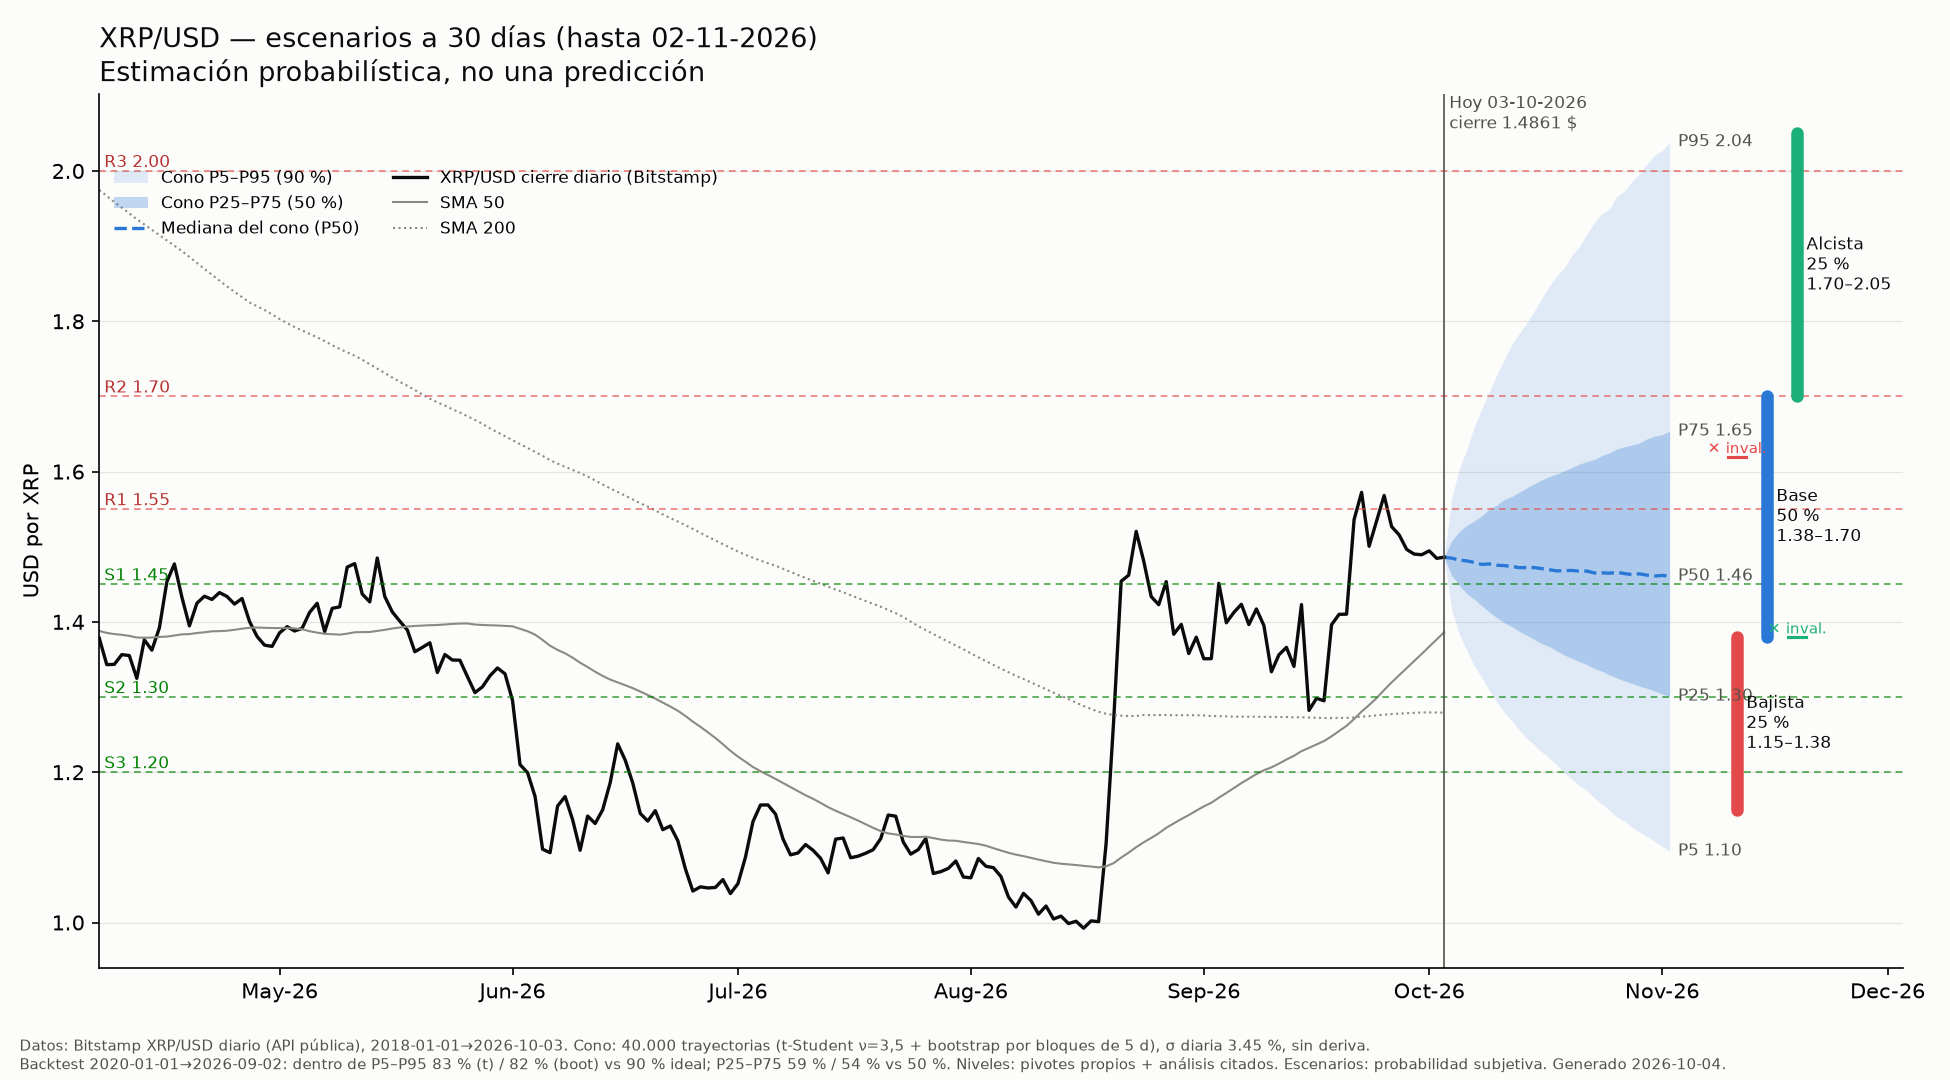
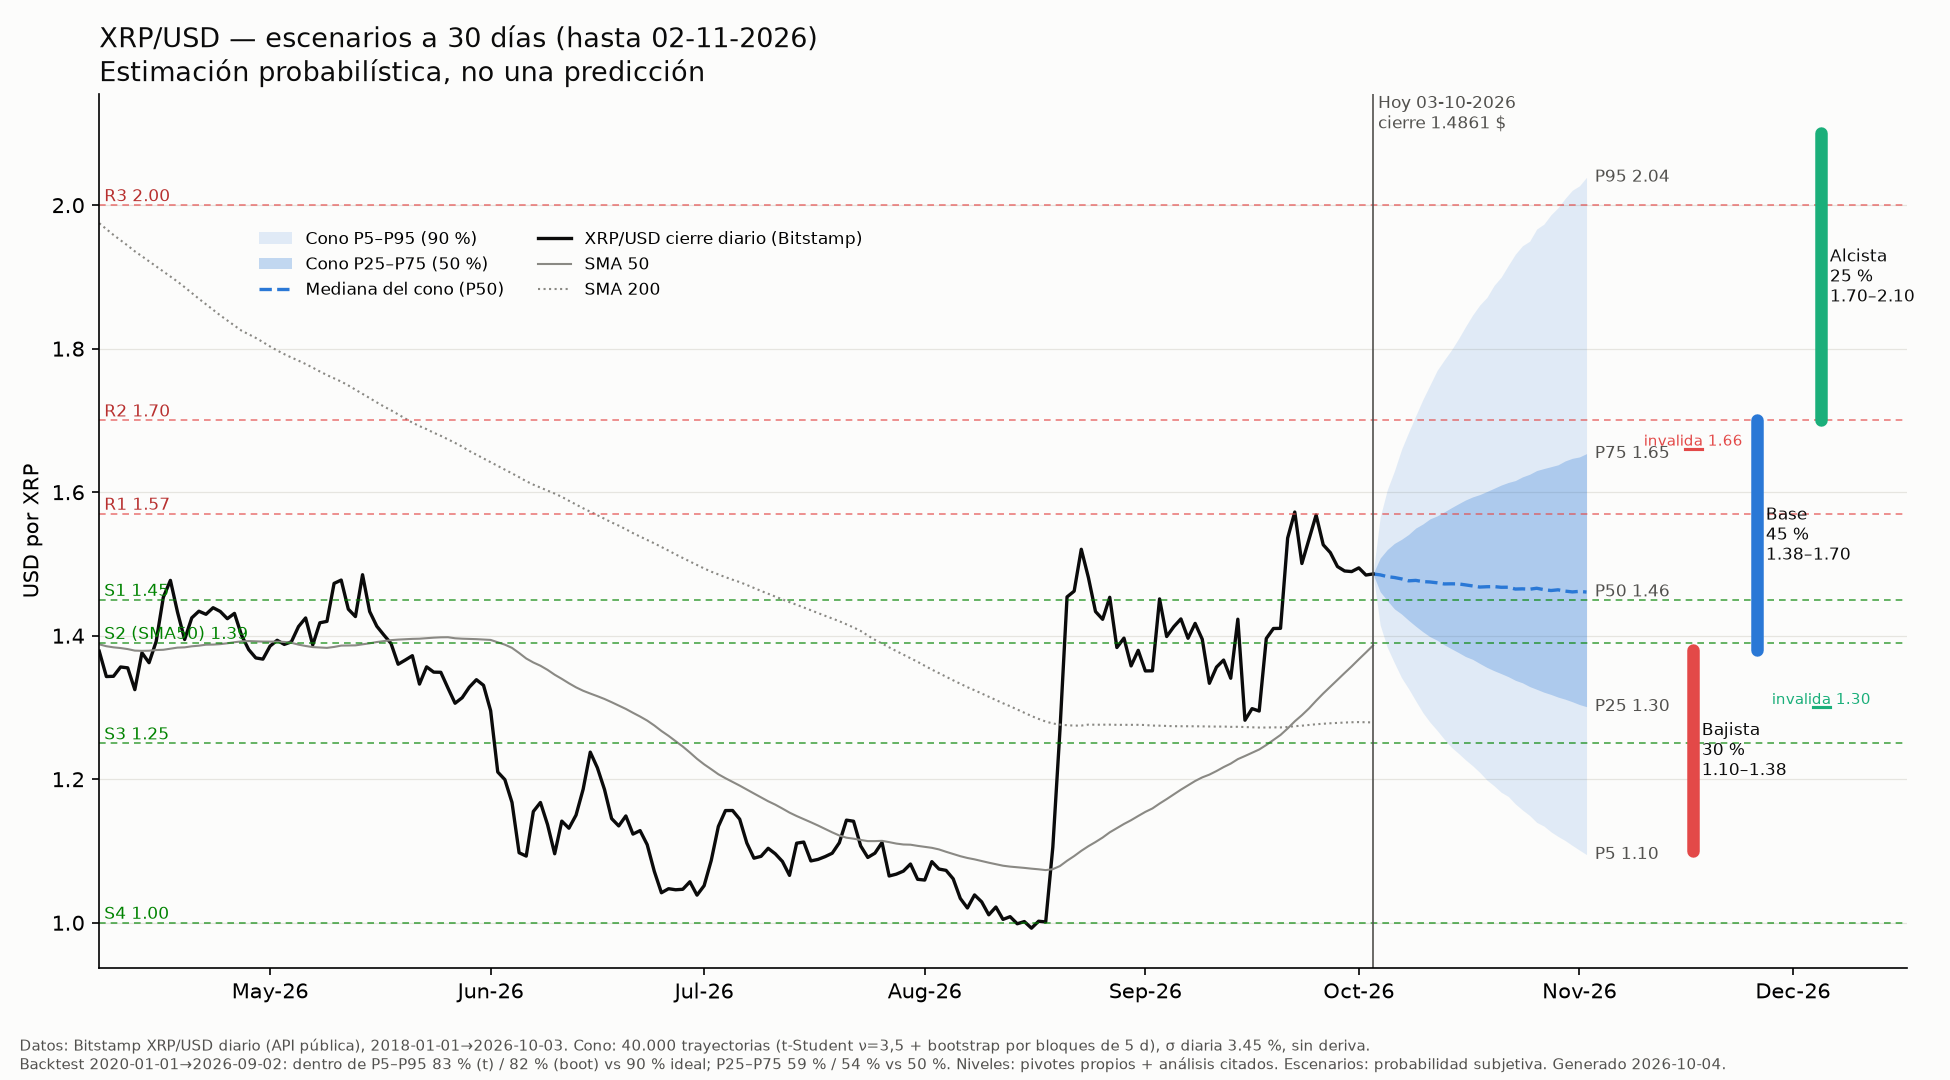
Resultados del análisis de escenarios de XRP (cono, backtest y gráficos)
Claude-Session: https://claude.ai/code/session_019mf4pPBmcFr4nLX5A78azg

diff --git a/analysis/xrp_scenarios.py b/analysis/xrp_scenarios.py
@@ -220,18 +220,18 @@ for v, lab in RES:
     ax.axhline(v, color="#e34948", lw=0.8, ls=(0, (4, 3)), alpha=0.7)
     ax.text(x0, v, f" {lab} {v:.2f}", va="bottom", fontsize=8, color="#b8302f")
 # Escenarios: barras de rango al final del horizonte
-xe = fut[-1] + pd.Timedelta(days=9)
+xe = fut[-1] + pd.Timedelta(days=15)
 for k, (name, s) in enumerate(SC.items()):
-    xx = xe + pd.Timedelta(days=4 * k)
+    xx = xe + pd.Timedelta(days=9 * k)
     ax.plot([xx, xx], [s["lo"], s["hi"]], color=s["col"], lw=6, solid_capstyle="round")
     ax.text(xx + pd.Timedelta(days=1.2), (s["lo"] + s["hi"]) / 2, f"{name}\n{s['p']} %\n{s['lo']:.2f}–{s['hi']:.2f}",
             fontsize=8, va="center", color="#0b0b0b")
     if s.get("inv"):
         ax.plot([xx - pd.Timedelta(days=1.2), xx + pd.Timedelta(days=1.2)], [s["inv"]] * 2, color=s["col"], lw=1.5)
-        ax.text(xx, s["inv"], "✕ inval.", fontsize=7, ha="center", va="bottom", color=s["col"])
+        ax.text(xx, s["inv"], f"invalida {s['inv']:.2f}", fontsize=7, ha="center", va="bottom", color=s["col"])
 ax.axvline(last_date, color="#52514e", lw=0.8)
 ax.text(last_date, ax.get_ylim()[1], f" Hoy {last_date:%d-%m-%Y}\n cierre {P0:.4f} $", va="top", fontsize=8, color="#52514e")
-ax.set_xlim(hx.index[0], xe + pd.Timedelta(days=22))
+ax.set_xlim(hx.index[0], xe + pd.Timedelta(days=30))
 ax.xaxis.set_major_formatter(mdates.DateFormatter("%b-%y"))
 ax.grid(axis="y", color="#e6e5e0", lw=0.6); ax.set_axisbelow(True)
 for s_ in ["top", "right"]: ax.spines[s_].set_visible(False)
@@ -243,9 +243,9 @@ fig.text(0.01, 0.01,
          f"Datos: {src} (API pública), {res['inicio']}→{res['ultima_vela_cerrada']}. Cono: 40.000 trayectorias (t-Student ν=3,5 + bootstrap por bloques de 5 d), "
          f"σ diaria {res['sigma_diaria_modelo_pct']:.2f} %, sin deriva.\nBacktest {bt_t['desde']}→{bt_t['hasta']}: dentro de P5–P95 "
          f"{bt_t['dentro_P5_P95_pct']:.0f} % (t) / {bt_b['dentro_P5_P95_pct']:.0f} % (boot) vs 90 % ideal; P25–P75 {bt_t['dentro_P25_P75_pct']:.0f} % / "
-         f"{bt_b['dentro_P25_P75_pct']:.0f} % vs 50 %. Niveles: pivotes propios + análisis citados. Escenarios: probabilidad subjetiva. Generado {pd.Timestamp.utcnow():%Y-%m-%d}.",
+         f"{bt_b['dentro_P25_P75_pct']:.0f} % vs 50 %. Niveles: pivotes propios + análisis citados. Escenarios: probabilidad subjetiva. Generado {pd.Timestamp.now('UTC'):%Y-%m-%d}.",
          fontsize=7.2, color="#52514e")
-ax.legend(loc="upper left", fontsize=8, frameon=False, ncol=2, bbox_to_anchor=(0, 0.93))
+ax.legend(loc="upper left", fontsize=8, frameon=False, ncol=2, bbox_to_anchor=(0.08, 0.86))
 fig.tight_layout(rect=(0, 0.05, 1, 1))
 fig.savefig(os.path.join(OUTDIR, "xrp_escenarios_30d.png"))
 
